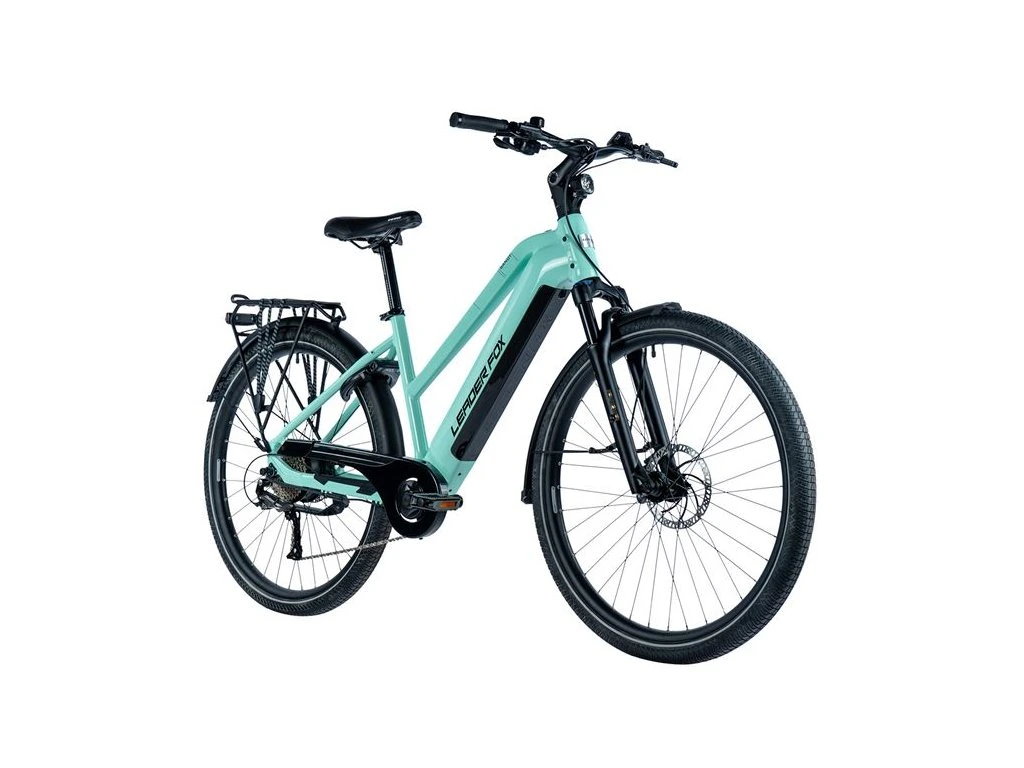
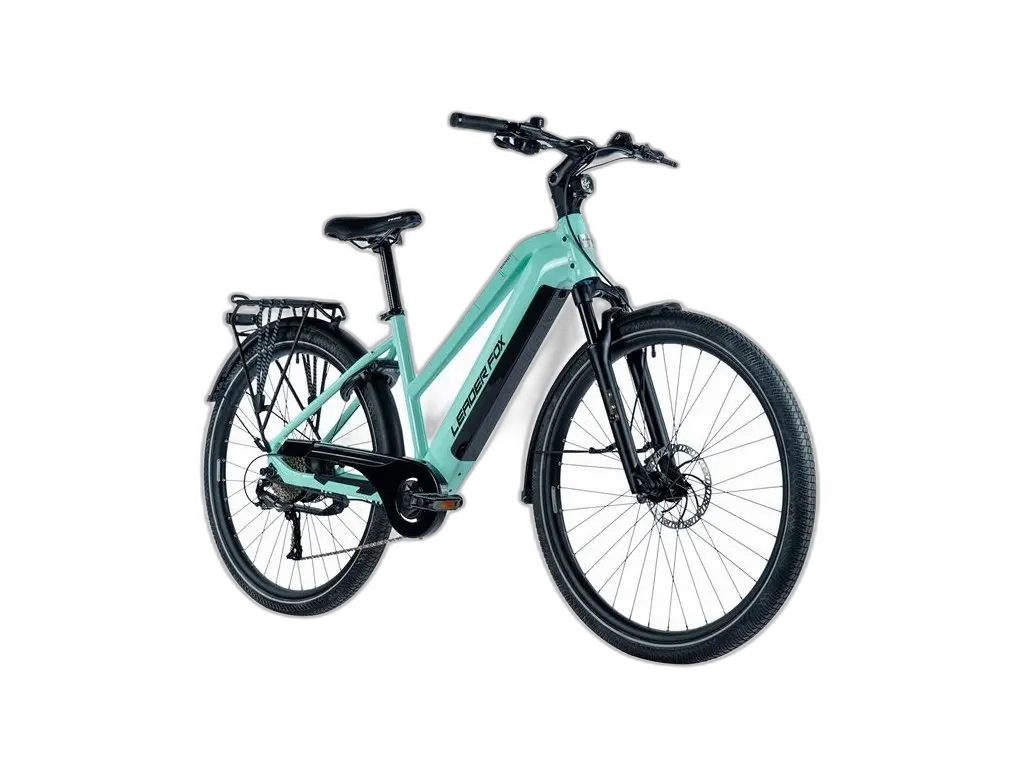
Bikeshop: transparent-bg WebPs so all 3 bikes sit on the dark .ph
The Crussis and Leader Fox photos were on white backgrounds; the
Trek was on near-black. On the dark .ph (background:#0e1116) the
white-bg ones looked like rectangular billboards plopped on top of
the section.

Ran rembg (u2net) on all three originals, encoded the alpha-channel
PNGs as WebP (q=78, alpha_q=90). Result: all three are now cutouts
on transparent backgrounds, painted directly over the .ph's dark
slate — visually unified, no chrome around the bikes.

File sizes: Crussis 1.3MB PNG → 184KB WebP; Trek 461KB → 64KB;
Leader Fox 479KB → 72KB. Total ~320KB across the section, lower
than the original 442KB.

Removed the now-unused bike-1.jpg and bike-2.jpg from /static.
bike-3.webp was overwritten in place (same filename).

diff --git a/index.html b/index.html
@@ -524,11 +524,11 @@
     <div class="sec-head"><span class="no">01</span><h2 data-i18n="shop.head">Bikeshop</h2><span class="rule"></span><span class="tag" data-i18n="shop.tag">Prodej kol</span></div>
     <div class="bikes">
       <article class="bike">
-        <div class="ph"><span class="idx">01 / Crussis</span><img src="./static/bike-1.jpg" alt="Elektrokolo Crussis v prodejně Velointest" loading="lazy"></div>
+        <div class="ph"><span class="idx">01 / Crussis</span><img src="./static/bike-1.webp" alt="Elektrokolo Crussis v prodejně Velointest" loading="lazy"></div>
         <div class="bd"><div class="brand" data-i18n="shop.crussis.brand">Moderní Crussis</div><h3 data-i18n="shop.crussis.title">Elektrokola Crussis</h3><p data-i18n="shop.crussis.body">Nabízíme širokou škálu elektrokol Crussis, která spojují inovativní technologie a moderní design. Ideální volba pro vaše cyklistické dobrodružství.</p></div>
       </article>
       <article class="bike">
-        <div class="ph"><span class="idx">02 / Trek</span><img src="./static/bike-2.jpg" alt="Horské kolo Trek" loading="lazy"></div>
+        <div class="ph"><span class="idx">02 / Trek</span><img src="./static/bike-2.webp" alt="Horské kolo Trek" loading="lazy"></div>
         <div class="bd"><div class="brand" data-i18n="shop.trek.brand">Legendární Trek</div><h3 data-i18n="shop.trek.title">Kola Trek</h3><p data-i18n="shop.trek.body">Zprostředkováváme prodej kol Trek, která jsou známá svou kvalitou, odolností a výkonem. Vyberte si kolo, které vás nikdy nezklame.</p></div>
       </article>
       <article class="bike">